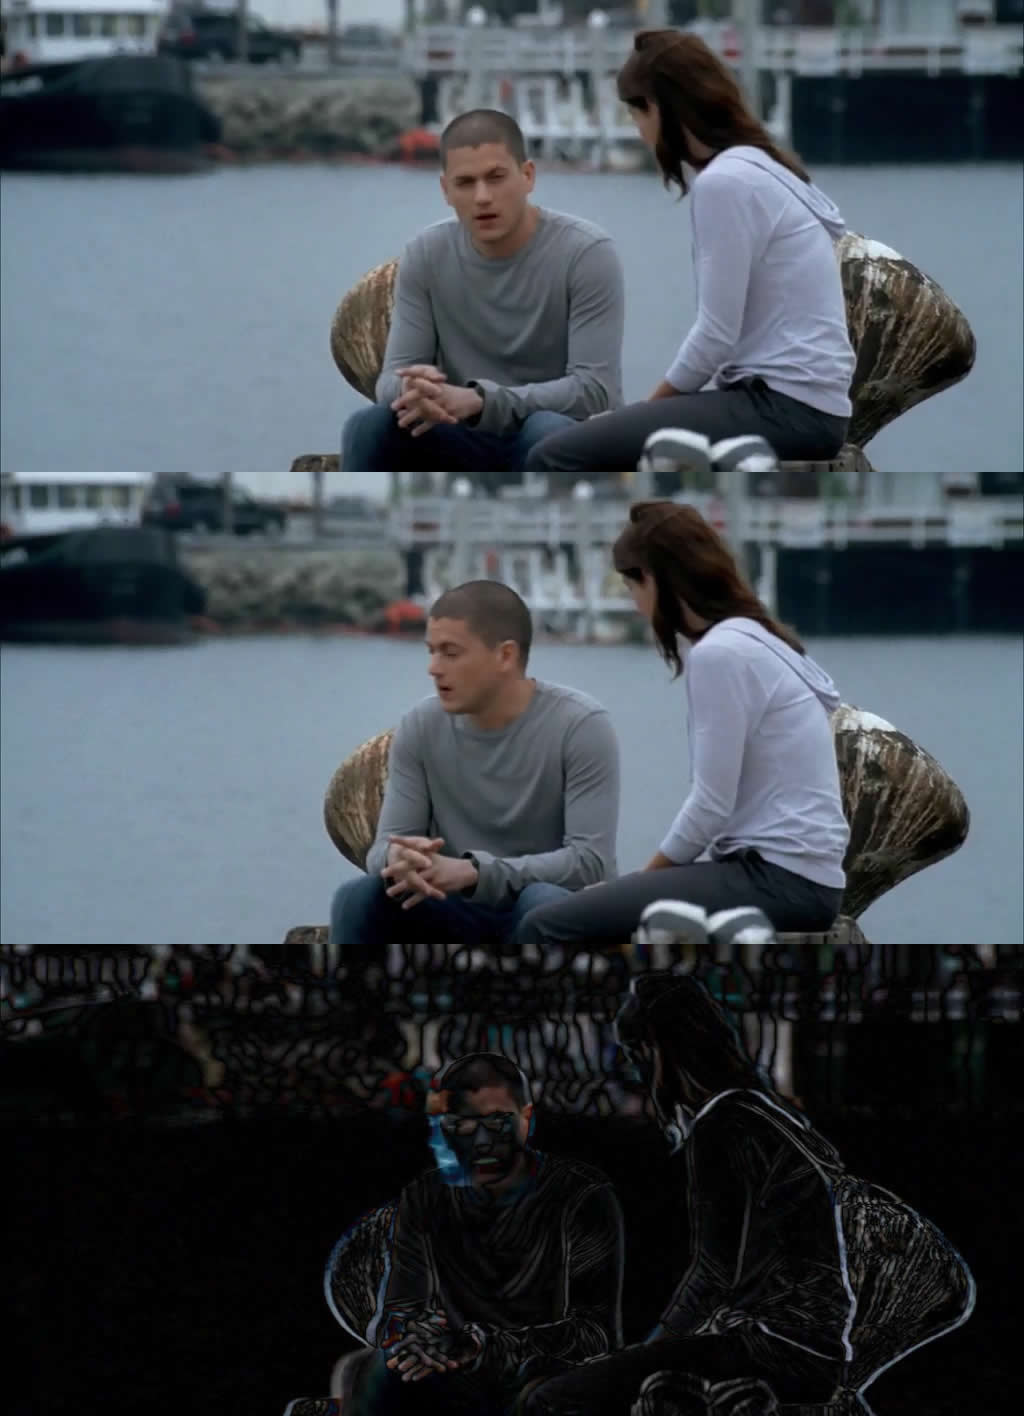
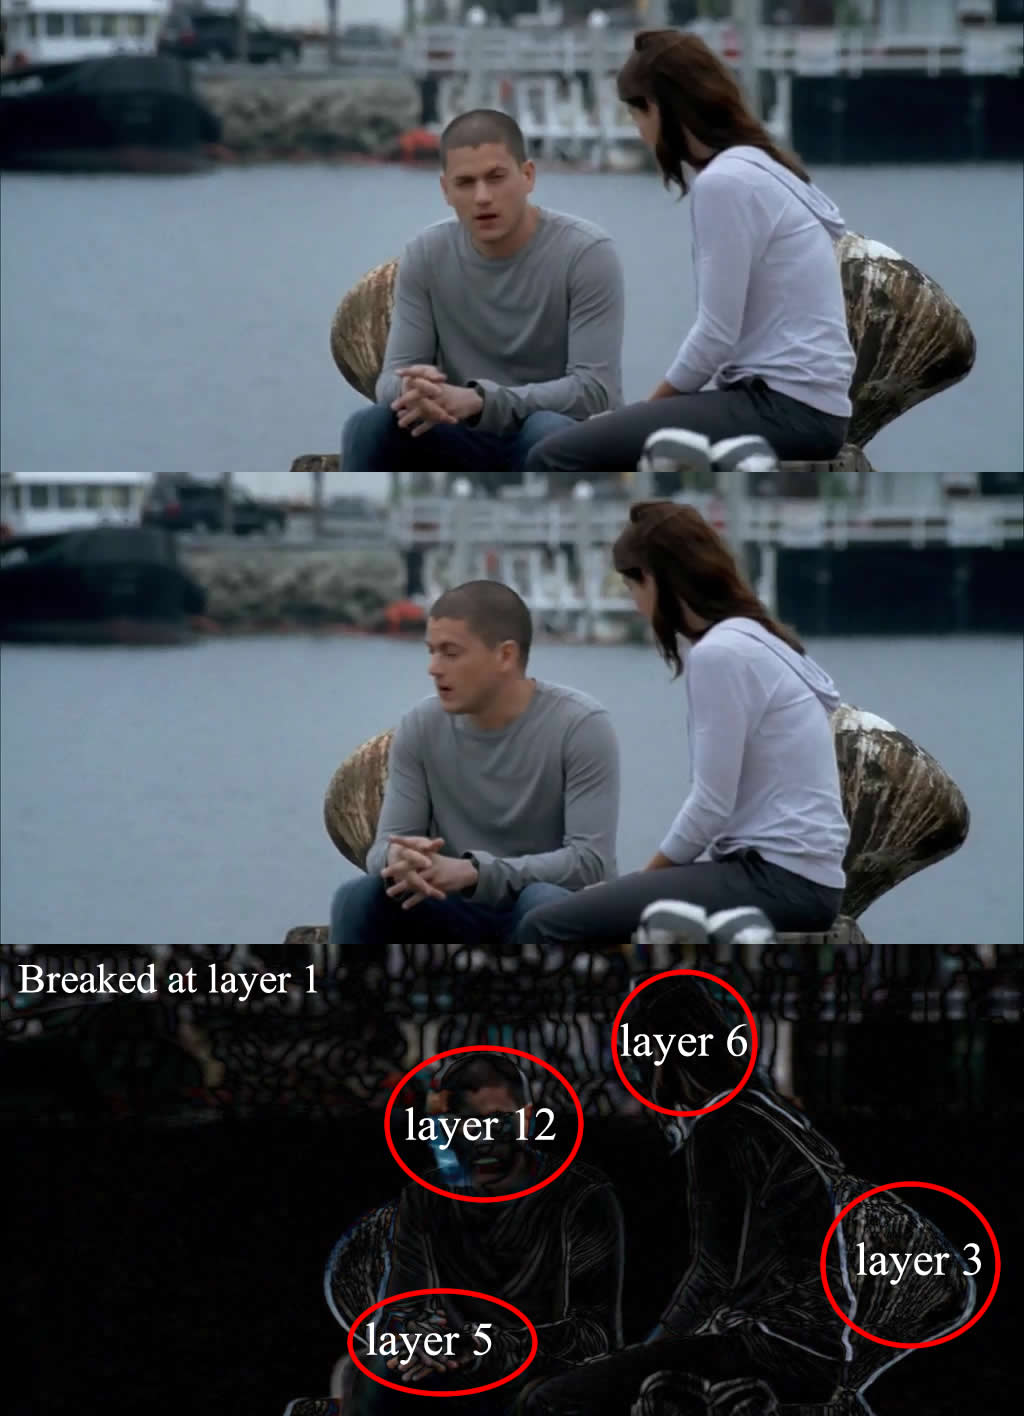
Modified image, and finished extension

diff --git a/reports/report2/report2.tex b/reports/report2/report2.tex
@@ -186,11 +186,6 @@ And only one face is not detected, the reason might be the combined disturbance 
     \label{fig:overall}
 \end{figure}
 
-% TODO:
-% https://blog.bluecrossmn.com/future-face-minnesota-look-willmar/ - the picture source
-
-% TODO: the total round of AdaBoost
-
 
 \subsection{Single feature performs bad}
 In the partial demonstration in Section 3 of the original paper, the author showed that with 200 feature's classifier can achieve 95\% percent accurate.
@@ -203,7 +198,7 @@ As a result, training AdaBoost to fit only one feature has a large probability t
 
 \subsection{Overfit causes problems}
 AdaBoost can always overfit if the fit process keeps going on.
-I believe select a proper total training round is more important.
+I believe selecting a proper maxima training round is very important, but the authors didn't mention the training details in the paper.
 
 The authors show an ROC curve (Figure 7 in original paper), which indicates that the more false positives are actually with higher correct detection rate.
 This looks disobeying my hypothesis, but I think the $X$-axis showed only 200 false positives among 75 million sub-windows.
@@ -263,6 +258,7 @@ and each model are different with each other even with the same configuration.
 
 \subsection{Model performance highly depends on training data}
 In the motivation of this paper, any kind of face can be detected if the training data are provided.
+The normal concerns are facial expressions, face decorations and etc., for training based algorithms, it require more variant input images to come over this.
 Therefore, for the training data, if we giving 10,000 images marked as an object, and many images marked as not an object,
 the resulting model should be able to detect that object from the input testing data.
 
@@ -297,7 +293,7 @@ I didn't the experiment with coloured noises and grey noises, it shows the noise
     \begin{center}
         \includegraphics[width=0.9\textwidth]{11people-noised}
     \end{center}
-    \caption{The noises \cite{noise} have significant impacts on the algorithm.}
+    \caption{The noises \cite{noise} have significant impacts \cite{skinface} on the algorithm.}
     \label{fig:tiltcor}
 \end{figure*}
 
@@ -307,14 +303,36 @@ As a result, the Haar-like features are still sensitive to image noises.
 
 
 \section{Extensions}
-The performance of this algorithm is very satisfying, in the computation ability in 2001, it can pro
-% TODO: the adjacent frames difference used in video face detection
-% only recalculate the different parts
+In 2001, this algorithm can outperform other approaches 15 more times, and with the computational ability,
+it must be able to perform better using a smaller window size and smaller slicing/scaling step sizes.
+And this will achieve a more accurate detecting rate.
 
-%
+As is mentioned in the introduction section in the original paper, some video face detection methods can outperform their algorithm.
+Because in video, the images are continuous, so the difference between adjacent frames can be used directly for reducing computing time.
+
+However, the authors didn't refer to any kind of video face detection papers.
+I thought a very simple but efficient algorithm to calculate the difference between the two images - using mask,
+calculating the absolute difference between the adjacent two frames (see Figure \ref{fig:ext}).
+
+For, example, in Figure \ref{fig:ext}
+\begin{figure}[t]
+    \begin{center}
+        \includegraphics[width=0.9\linewidth]{extension}
+    \end{center}
+    \caption{The first two images are adjacent frames picked randomly from \textit{Prison Break S4E04 1:32},
+    the first image is the second image's mask to produce the third image.
+    The marks in the third images indicates the features in selected areas are discarded in which layer of the cascading structure.}
+    \label{fig:ext}
+\end{figure}
+
+Initially, current frame should be marked like the third picture in Figure \ref{fig:ext},
+and the main idea is to find the different areas between the two frames but with higher layer numbers.
+I call it high probable areas. Then re-calculate those areas only, to detect the potential faces.
 
 
 \section{Conclusion}
+% TODO
+
 
 % Bibliography
 \begin{thebibliography}{99}
@@ -353,6 +371,10 @@ Yale Face Database,
 \bibitem {facialimg}
 These Amazing Photo Collages Display The Wide Range Of Human Emotions! Awesome Work!,
 \url{http://www.viralspell.com/amazing-photo-collages-display-wide-range-human-emotions-awesome-work/}
+
+\bibitem {skinface}
+Blue Cross' Community Table aims to improve health for Willmar's increasingly older and more diverse community,
+\url{https://blog.bluecrossmn.com/future-face-minnesota-look-willmar/}
 
 \bibitem {noise}
 Add noise online,
